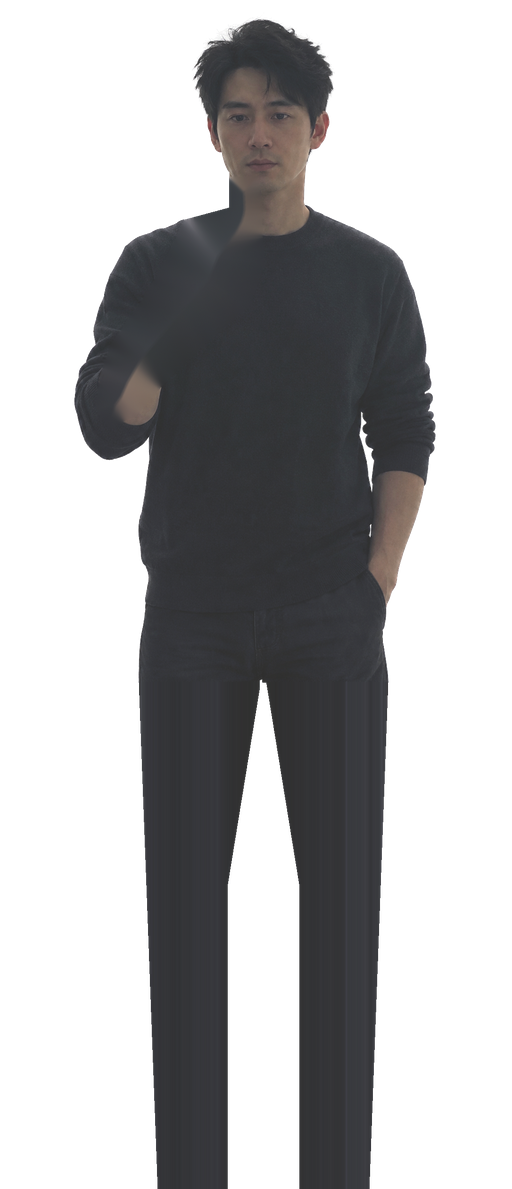
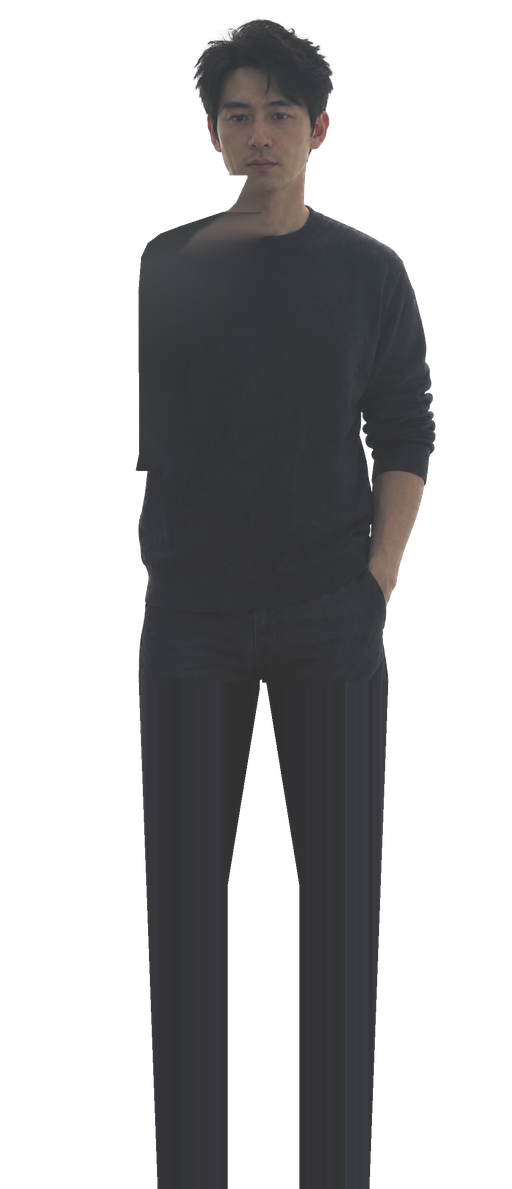
PianistWeb: handheld person's whole raised arm modelled, attached at the shoulder.
The arm is cut out of the card (torso side and neck filled from solid sweater
and skin only) and rebuilt as a two-bone arm from the card's shoulder to the
phone, elbow hanging down and slightly out, so it stays on the body at any
shooting height.

Changed region(s): [[0.125, 0.1245, 0.5, 0.4045]]

diff --git a/PianistWeb/src/person.js b/PianistWeb/src/person.js
@@ -5,9 +5,10 @@
 // person shows up in a black screen. The card is unlit-looking only because the photo is dark;
 // it is an ordinary diffuse surface lit by the room.
 //
-// The raised forearm, the hand and the phone are modelled (cut out of the picture): they reach
-// forward from the elbow on the card to the camera, so the arm stands out from the body in the
-// reflection as in the photo.
+// The raised arm, the hand and the phone are modelled (cut out of the picture): a two-bone arm
+// from the shoulder on the card to the phone at the camera, the elbow hanging down and a little
+// out, so the arm stays attached to the body at any shooting height and stands out from it in
+// the reflection, as in the photo.
 //
 // The card stands upright on the floor, turned with the camera's heading, a little behind the
 // camera, placed sideways so that the phone in the picture is in line with the camera. Shots
@@ -20,8 +21,10 @@ import { RoundedBoxGeometry } from 'three/addons/geometries/RoundedBoxGeometry.j
 const URL = import.meta.env.BASE_URL + 'person/';
 const BEHIND = 0.3;				// m, card plane behind the camera (between the phone and the face)
 
-const ELBOW_FORWARD = 0.06;		// m, elbow in front of the card
-const _v = new THREE.Vector3(), _w = new THREE.Vector3(), _e = new THREE.Vector3(), _up = new THREE.Vector3( 0, 1, 0 );
+const UPPER_ARM = 0.29, FOREARM = 0.27;		// m, shoulder -> elbow, elbow -> wrist
+const SHOULDER_IN = 0.035;						// m, joint inside the shoulder's outline (towards the neck)
+const ELBOW_POLE = new THREE.Vector3( 0.45, - 1, 0.25 ).normalize();	// elbow: down, out to the right, back
+const _v = new THREE.Vector3(), _s = new THREE.Vector3(), _w = new THREE.Vector3(), _e = new THREE.Vector3(), _up = new THREE.Vector3( 0, 1, 0 );
 
 function mat( color, roughness, extra = {} ) {
 
@@ -90,7 +93,9 @@ export class Person {
 
 		// the raised arm; albedo from cutout.json (the photo's colours corrected the same way)
 		const skin = this.skin = mat( '#7c6a5d', 0.6, { sheen: 0.3, sheenColor: new THREE.Color( '#8a7464' ) } );
+		const sweater = this.sweater = mat( '#2e3034', 0.95, { sheen: 0.5, sheenColor: new THREE.Color( '#3a3a3c' ), sheenRoughness: 0.8 } );
 		const sleeve = this.sleeve = mat( '#34363a', 0.95, { sheen: 0.5, sheenColor: new THREE.Color( '#3a3a3c' ), sheenRoughness: 0.8 } );
+		this.upperArm = limb( 0.052, sweater, 0.85 );		// shoulder -> elbow
 		this.forearm = limb( 0.036, skin, 0.72 );			// thicker below the elbow, slim at the wrist
 		this.cuff = limb( 0.044, sleeve, 0.9 );			// sleeve pushed up, bunched at the elbow
 		this.phone = new THREE.Mesh( new RoundedBoxGeometry( 0.075, 0.155, 0.009, 3, 0.006 ), mat( '#0a0a0c', 0.55 ) );		// matte back: dark, as in the photo
@@ -115,14 +120,14 @@ export class Person {
 		placeLimb( thumb, new THREE.Vector3( 0.05, - 0.07, 0.022 ), new THREE.Vector3( 0.0, - 0.02, 0.012 ) );
 		this.hand.add( thumb );
 		this.phone.add( this.hand );
-		for ( const m of [ this.forearm, this.cuff, this.phone, ...this.hand.children ] ) {
+		for ( const m of [ this.upperArm, this.forearm, this.cuff, this.phone, ...this.hand.children ] ) {
 
 			m.castShadow = false;
 			m.receiveShadow = true;
 
 		}
 
-		this.group.add( this.forearm, this.cuff, this.phone );
+		this.group.add( this.upperArm, this.forearm, this.cuff, this.phone );
 
 		Promise.all( [
 			fetch( URL + 'cutout.json' ).then( r => r.json() ),
@@ -136,6 +141,7 @@ export class Person {
 			this.info = info;
 			this.skin.color.set( info.skin );
 			this.sleeve.color.set( info.sleeve );
+			if ( info.sweater ) this.sweater.color.set( info.sweater );
 			// card faces forward (-z of the root), origin at the phone
 			this.card.geometry.dispose();
 			this.card.geometry = new THREE.PlaneGeometry( info.width, info.height )
@@ -165,16 +171,29 @@ export class Person {
 		this.phone.updateMatrixWorld( true );
 		if ( ! this.info ) return;
 
-		// forearm: from the elbow (on the card, a little forward; raised for high shots) to the wrist
-		const { elbow, phone } = this.info;
-		const wrist = this.phone.localToWorld( _v.set( 0.058, - 0.085, 0.03 ) );
-		const local = root.worldToLocal( wrist.clone() );
-		_e.set( - ( elbow[ 0 ] - phone[ 0 ] ), Math.max( elbow[ 1 ] - phone[ 1 ], local.y - 0.3 ), - ELBOW_FORWARD );
-		root.localToWorld( _e );
-		placeLimb( this.forearm, _e, wrist );
-		const elbowPt = _e.clone(), cuffEnd = _w.subVectors( wrist, _e ).normalize().multiplyScalar( 0.11 ).add( _e ).clone();
-		placeLimb( this.cuff, elbowPt.addScaledVector( _w.subVectors( cuffEnd, elbowPt ).normalize(), - 0.03 ), cuffEnd );
-
+		// arm: shoulder (on the card) -> elbow -> wrist (at the phone), two-bone IK in root space.
+		// Root space: +x the person's right, -z forward; the card is mirrored, so its x runs the
+		// other way from the picture
+		const { shoulder, phone } = this.info;
+		const S = _s.set( - ( shoulder[ 0 ] - phone[ 0 ] ) - SHOULDER_IN, shoulder[ 1 ] - phone[ 1 ], 0 );
+		const W = root.worldToLocal( this.phone.localToWorld( _v.set( 0.058, - 0.085, 0.03 ) ) );
+		const d = _w.subVectors( W, S );
+		const dist = Math.min( d.length(), UPPER_ARM + FOREARM - 1e-3 );
+		d.normalize();
+		const a = ( UPPER_ARM * UPPER_ARM - FOREARM * FOREARM + dist * dist ) / ( 2 * dist );
+		const h = Math.sqrt( Math.max( 0, UPPER_ARM * UPPER_ARM - a * a ) );
+		const perp = _e.copy( ELBOW_POLE ).addScaledVector( d, - ELBOW_POLE.dot( d ) ).normalize();
+		const E = perp.multiplyScalar( h ).addScaledVector( d, a ).add( S );
+		W.copy( d ).multiplyScalar( dist ).add( S );			// the wrist, pulled in if out of reach
+		root.localToWorld( S );
+		root.localToWorld( E );
+		root.localToWorld( W );
+		placeLimb( this.upperArm, S, E );
+		placeLimb( this.forearm, E, W );
+		// pushed-up sleeve bunched just below the elbow
+		const c0 = _w.subVectors( W, E ).normalize().multiplyScalar( - 0.02 ).add( E ).clone();
+		const c1 = _w.subVectors( W, E ).normalize().multiplyScalar( 0.09 ).add( E ).clone();
+		placeLimb( this.cuff, c0, c1 );
 	}
 
 }

diff --git a/PianistWeb/tools/build-person-cutout.py b/PianistWeb/tools/build-person-cutout.py
@@ -5,12 +5,12 @@
 #                extended down to the floor, mirrored left-right: the photo shows what a mirror
 #                shows, the card must show the person as seen from the front, so its reflection
 #                in the piano's screen reads like the photo again
-#                The raised forearm, hand and phone are cut out (filled with the sweater behind
-#                them): person.js models them in 3D, reaching forward from the elbow to the camera
+#                The whole raised arm (upper arm, forearm, hand, phone) is cut out, the torso behind
+#                it filled in: person.js models it in 3D, from the shoulder to the camera
 #                Colours are corrected from the backlit photo (exposed for the white background,
 #                the figure 5-15x too dark) to plausible albedo: skin ~0.25, black knit ~0.035
-#   cutout.json  size in metres, where the phone (the camera), the eyes and the elbow are on the
-#                card, and the albedo of the modelled arm's skin and sleeve (same correction)
+#   cutout.json  size in metres, where the phone (the camera), the eyes and the right shoulder
+#                joint are on the card, and the albedo of the modelled arm's skin and sleeve (same correction)
 # Run: python3 tools/build-person-cutout.py
 
 import json, os
@@ -25,12 +25,19 @@ OUT = os.path.join( HERE, '../public/person' )
 M_PER_PX = 0.00072			# head with hair ~265 px wide -> 0.19 m
 EYES = ( 515, 245 )			# px in the photo, between the eyes
 PHONE = ( 617, 405 )		# px, the phone's lens (the camera)
-ELBOW = ( 875, 895 )		# px, the raised arm's elbow
+SHOULDER = ( 785, 560 )		# px, the raised arm's shoulder joint
+# upper arm (sleeve) outline: shoulder top, round the elbow, back up the torso side
+UPPER_ARM = [ ( 700, 470 ), ( 760, 500 ), ( 850, 575 ), ( 895, 700 ), ( 930, 830 ), ( 930, 892 ), ( 902, 948 ), ( 856, 984 ), ( 790, 994 ), ( 700, 994 ) ]
+# the figure's right outline behind the raised arm (px, y increasing): neck under the jaw, collar,
+# shoulder, then the torso side straight down (as it shows below the elbow)
+COLLAR_Y = 450				# px, neck above, sweater below
+TORSO_RIGHT = [ ( 560, 376 ), ( 585, 430 ), ( 600, 445 ), ( 700, 478 ), ( 745, 495 ), ( 772, 515 ), ( 786, 545 ), ( 792, 620 ), ( 790, 960 ), ( 800, 1010 ) ]
 # forearm + hand + phone outline (px), replaced by the sweater / neck behind it
 ARM = [ ( 540, 376 ), ( 692, 376 ), ( 694, 470 ), ( 735, 560 ), ( 790, 650 ), ( 850, 735 ), ( 872, 800 ),
 	( 880, 868 ), ( 852, 905 ), ( 800, 880 ), ( 720, 790 ), ( 640, 715 ), ( 560, 650 ), ( 528, 560 ), ( 532, 470 ) ]
 SKIN = ( 58, 47, 39 )		# px colour of the raised forearm (photo, sRGB)
 SLEEVE = ( 17, 18, 22 )		# its pushed-up sleeve
+SWEATER = ( 9, 10, 13 )		# the upper arm's sweater (as the torso)
 EYE_HEIGHT = 1.64			# m above the floor
 BG = 240.0					# background grey
 OUT_W = 512
@@ -44,24 +51,36 @@ alpha = np.clip( ( BG - 8 - lum ) / 90, 0, 1 )
 a = np.maximum( alpha, 1e-3 )[ ..., None ]
 rgb = np.clip( ( img - ( 1 - alpha[ ..., None ] ) * BG ) / a, 0, 255 )
 
-# the raised arm out: the sweater and neck behind it filled in from around the hole (inpainting),
-# the background right of the neck above the shoulder line
+# the raised arm out: inside the figure's outline (TORSO_RIGHT) the neck and sweater behind it are
+# filled in from around the hole (inpainting), outside it becomes background
 hole = Image.new( 'L', ( w, h ), 0 )
 ImageDraw.Draw( hole ).polygon( ARM, fill = 255 )
-hole = np.asarray( hole ) > 0
+ImageDraw.Draw( hole ).polygon( UPPER_ARM, fill = 255 )
+hole = cv2.dilate( np.asarray( hole ), np.ones( ( 9, 9 ), np.uint8 ) ) > 0		# swallow the sleeve's edge fringe
 ys, xs = np.mgrid[ 0:h, 0:w ]
-shoulder = 440 + np.maximum( xs - 600, 0 ) * 0.27			# collar -> shoulder line, sloping down
-air = hole & ( xs >= 600 ) & ( ys < shoulder )
-fill = ( hole & ~ air ).astype( np.uint8 ) * 255
-# the background's colour is meaningless (un-mixed white): extend the figure's colours into it
-# first, so the hole is filled from the figure only
-src = rgb.round().astype( np.uint8 )
-bgmask = ( ( ( alpha < 0.995 ) & ~ hole ) | air ).astype( np.uint8 ) * 255
-near = cv2.dilate( fill, np.ones( ( 61, 61 ), np.uint8 ) ) > 0		# only around the hole (fast)
-src_ext = cv2.inpaint( src, ( bgmask * near ).astype( np.uint8 ), 5, cv2.INPAINT_TELEA )
-filled = cv2.inpaint( src_ext, cv2.dilate( fill, np.ones( ( 5, 5 ), np.uint8 ) ), 9, cv2.INPAINT_TELEA )
-grow = cv2.dilate( fill, np.ones( ( 5, 5 ), np.uint8 ) ) > 0
-rgb[ grow ] = filled[ grow ]
+edge = np.interp( ys, [ p[ 1 ] for p in TORSO_RIGHT ], [ p[ 0 ] for p in TORSO_RIGHT ] )
+# everything right of the outline down to the hip goes (the sleeve's top above the polygon too)
+air = ( xs > edge ) & ( ( hole & ( ys < 1000 ) ) | ( ( ys > 376 ) & ( ys < 1000 ) ) )
+hole |= air
+fill = hole & ~ air
+# fill only from the figure outside the hole: the whole hole (arm, phone, hand) and the
+# background are masked together, and the background (un-mixed white, meaningless) is set to the
+# sweater first, so neither the arm's skin nor the white leaks in as streaks
+src = rgb.copy()
+src[ ( alpha < 0.995 ) & ~ hole ] = np.median( rgb[ 1000:1100, 300:700 ].reshape( - 1, 3 ), axis = 0 )
+near = cv2.dilate( hole.astype( np.uint8 ), np.ones( ( 41, 41 ), np.uint8 ) ) > 0
+mask = ( hole | ( ( alpha < 0.995 ) & near ) ).astype( np.uint8 ) * 255
+# the neck (above the collar) from the skin around it; the sweater from the sweater only, so the
+# neck's skin doesn't flood down over the shoulder as a light patch
+neck = fill & ( ys < COLLAR_Y ) & ( xs < 612 )
+filled = cv2.inpaint( src.round().astype( np.uint8 ), mask, 9, cv2.INPAINT_TELEA ).astype( np.float32 )
+rgb[ neck ] = filled[ neck ]
+# sources: solid sweater only. The figure's anti-aliased outline (lum up to ~140 still counts as
+# alpha 1) and the neck would otherwise spread as light patches
+solid = cv2.erode( ( alpha >= 0.995 ).astype( np.uint8 ), np.ones( ( 13, 13 ), np.uint8 ) ) > 0
+src[ ~ solid | ( ys < COLLAR_Y ) ] = src[ ( alpha < 0.995 ) & ~ hole ][ 0 ]		# the sweater median set above
+filled = cv2.inpaint( src.round().astype( np.uint8 ), mask, 9, cv2.INPAINT_TELEA ).astype( np.float32 )
+rgb[ fill & ~ neck ] = filled[ fill & ~ neck ]
 alpha[ hole ] = 1
 alpha[ air ] = 0
 
@@ -102,6 +121,6 @@ Image.fromarray( rgba, 'RGBA' ).resize( ( OUT_W, out_h ), Image.LANCZOS ).save( 
 
 # positions in metres on the card, from its bottom-left corner (after mirroring)
 m = lambda p: [ round( ( w - p[ 0 ] ) * M_PER_PX, 4 ), round( ( H - p[ 1 ] ) * M_PER_PX, 4 ) ]
-info = { 'width': round( w * M_PER_PX, 4 ), 'height': round( H * M_PER_PX, 4 ), 'phone': m( PHONE ), 'eyes': m( EYES ), 'elbow': m( ELBOW ), 'skin': hexc( SKIN ), 'sleeve': hexc( SLEEVE ) }
+info = { 'width': round( w * M_PER_PX, 4 ), 'height': round( H * M_PER_PX, 4 ), 'phone': m( PHONE ), 'eyes': m( EYES ), 'shoulder': m( SHOULDER ), 'skin': hexc( SKIN ), 'sleeve': hexc( SLEEVE ), 'sweater': hexc( SWEATER ) }
 json.dump( info, open( os.path.join( OUT, 'cutout.json' ), 'w' ) )
 print( info, ( OUT_W, out_h ) )
